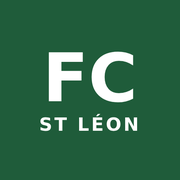
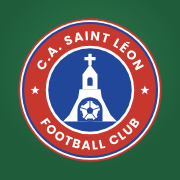
Écusson du club : en-tête, icônes, filigrane du terrain, aperçu WhatsApp
Claude-Session: https://claude.ai/code/session_01TKmFSDerBoZPCH2m76VveP

diff --git a/index.html b/index.html
@@ -6,6 +6,10 @@
 <meta name="theme-color" content="#1F5C3A">
 <style>:root{padding-top:env(safe-area-inset-top,0px);padding-bottom:env(safe-area-inset-bottom,0px)}*,*::before,*::after{box-sizing:border-box}body{margin:0}img{max-width:100%}[hidden]{display:none!important}</style>
 <title>FC St Léon</title>
+<link rel="icon" href="logo-mark.svg" type="image/svg+xml"><link rel="icon" href="favicon-32.png" sizes="32x32" type="image/png">
+<meta name="description" content="FC St Léon, foot à 7 : effectif, calendrier, matchs et résultats de l'équipe.">
+<meta property="og:type" content="website"><meta property="og:title" content="FC St Léon"><meta property="og:description" content="Foot à 7 : effectif, calendrier, matchs et résultats. Inscris-toi avec ton nom et ton prénom.">
+<meta property="og:url" content="https://rottweilert.github.io/fc-st-leon/"><meta property="og:image" content="https://rottweilert.github.io/fc-st-leon/og.png"><meta property="og:image:width" content="1200"><meta property="og:image:height" content="630"><meta property="og:image:alt" content="Écusson du C.A. Saint Léon Football Club"><meta name="twitter:card" content="summary_large_image">
 <link rel="manifest" href="manifest.webmanifest"><link rel="apple-touch-icon" href="apple-touch-icon.png"><meta name="apple-mobile-web-app-title" content="FC St Léon"><meta name="apple-mobile-web-app-status-bar-style" content="black-translucent"><meta name="apple-mobile-web-app-capable" content="yes"><meta name="mobile-web-app-capable" content="yes">
 <link rel="preconnect" href="https://fonts.googleapis.com">
 <link rel="stylesheet" href="https://fonts.googleapis.com/css2?family=Barlow+Condensed:wght@600;700&family=Barlow:wght@400;500;600&display=swap">
@@ -47,6 +51,7 @@ button:focus-visible,input:focus-visible,select:focus-visible,textarea:focus-vis
 
 header{display:flex;align-items:center;gap:10px;padding:8px 16px;border-bottom:1px solid var(--line);background:var(--surface)}
 .brand{flex:1;min-width:0}
+.crest{width:38px;height:38px;flex:none;display:block;filter:drop-shadow(0 1px 1.5px rgba(0,0,0,.18))}
 .brand h1{margin:0;font-family:var(--display);font-weight:700;font-size:20px;letter-spacing:.02em;text-transform:uppercase;line-height:1}
 .brand p{margin:2px 0 0;color:var(--muted);font-size:13px;white-space:nowrap;overflow:hidden;text-overflow:ellipsis}
 .matchclock{display:flex;align-items:center;gap:10px}
@@ -209,6 +214,8 @@ label.sub{font-weight:500;font-size:12px}
 .ln{position:absolute;pointer-events:none;border:2px solid var(--chalk);opacity:.7}
 .ln.half{left:50%;top:0;bottom:0;border-width:0 0 0 2px}
 .ln.circle{left:50%;top:50%;width:70px;height:70px;border-radius:50%;transform:translate(-50%,-50%)}
+/* club crest chalked in the centre circle, behind the players */
+.pitch::before{content:"";position:absolute;left:50%;top:50%;width:52px;height:52px;transform:translate(-50%,-50%);background:url(logo-mono.svg) center/contain no-repeat;opacity:.2;pointer-events:none}
 .ln.boxl{left:-2px;top:26%;bottom:26%;width:13%;border-left:0}
 .ln.boxr{right:-2px;top:26%;bottom:26%;width:13%;border-right:0}
 .slot{position:relative;z-index:1;display:flex;flex-direction:column;align-items:center;gap:3px;border:0;background:none;padding:3px 1px;min-width:0;color:var(--on-grass)}
@@ -345,6 +352,7 @@ ol.steps{margin:0 0 14px;padding-left:20px} ol.steps li{margin-bottom:4px}
 <body>
 <div class="app">
   <header>
+    <img class="crest" src="logo.svg" alt="Écusson du club" width="38" height="38">
     <div class="brand">
       <h1>FC St Léon</h1>
       <p id="subline">Foot à 7</p>

diff --git a/sw.js b/sw.js
@@ -1,8 +1,8 @@
 // Mode hors ligne : la page et ses ressources sont gardées sur l'appareil.
 // La page est toujours redemandée au réseau d'abord (pour avoir la dernière version),
 // et la copie locale ne sert que sans connexion. Les données Firebase ne passent pas par ici.
-const CACHE = 'fcsl-v1';
-const CORE = ['./', './index.html', './manifest.webmanifest', './icon-192.png', './icon-512.png'];
+const CACHE = 'fcsl-v2';
+const CORE = ['./', './index.html', './manifest.webmanifest', './icon-192.png', './icon-512.png', './logo.svg', './logo-mark.svg', './logo-mono.svg'];
 const EXTERNAL = ['fonts.googleapis.com', 'fonts.gstatic.com'];
 
 self.addEventListener('install', e => {
